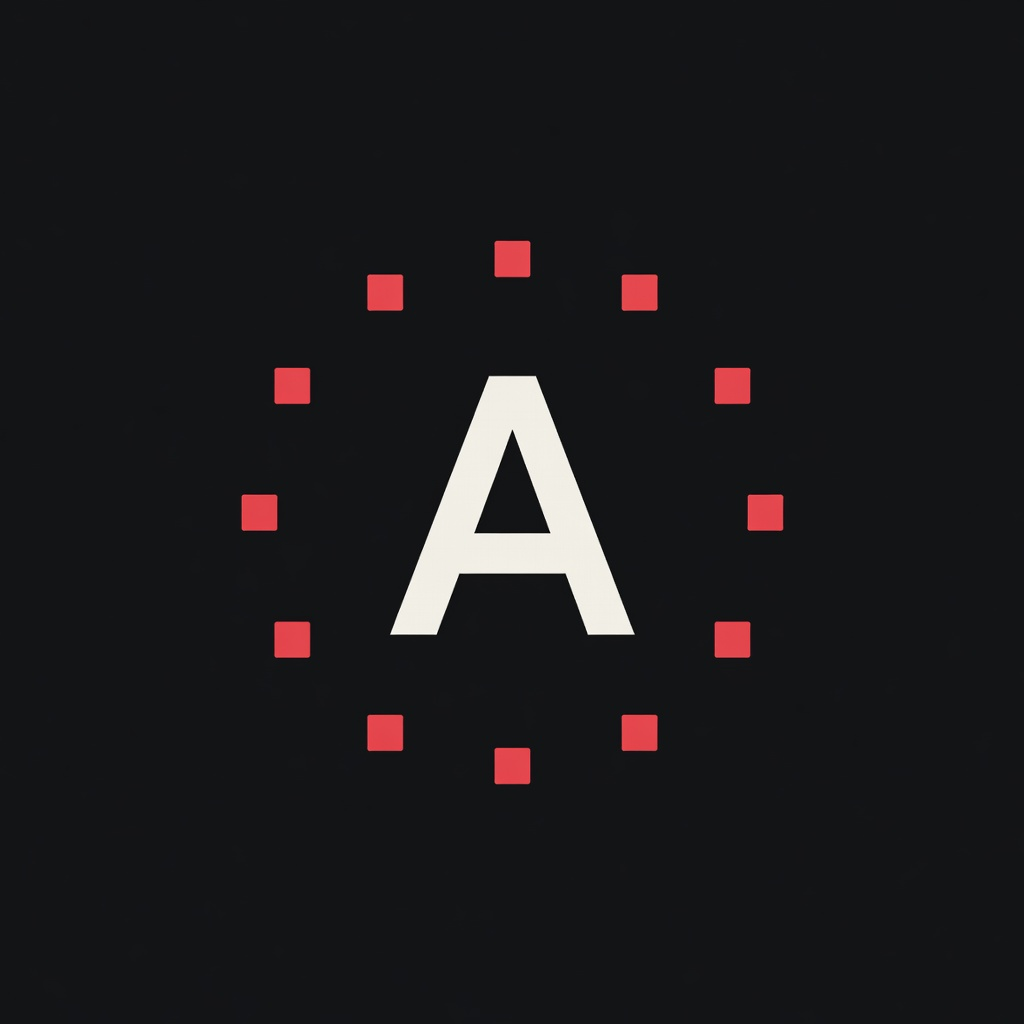
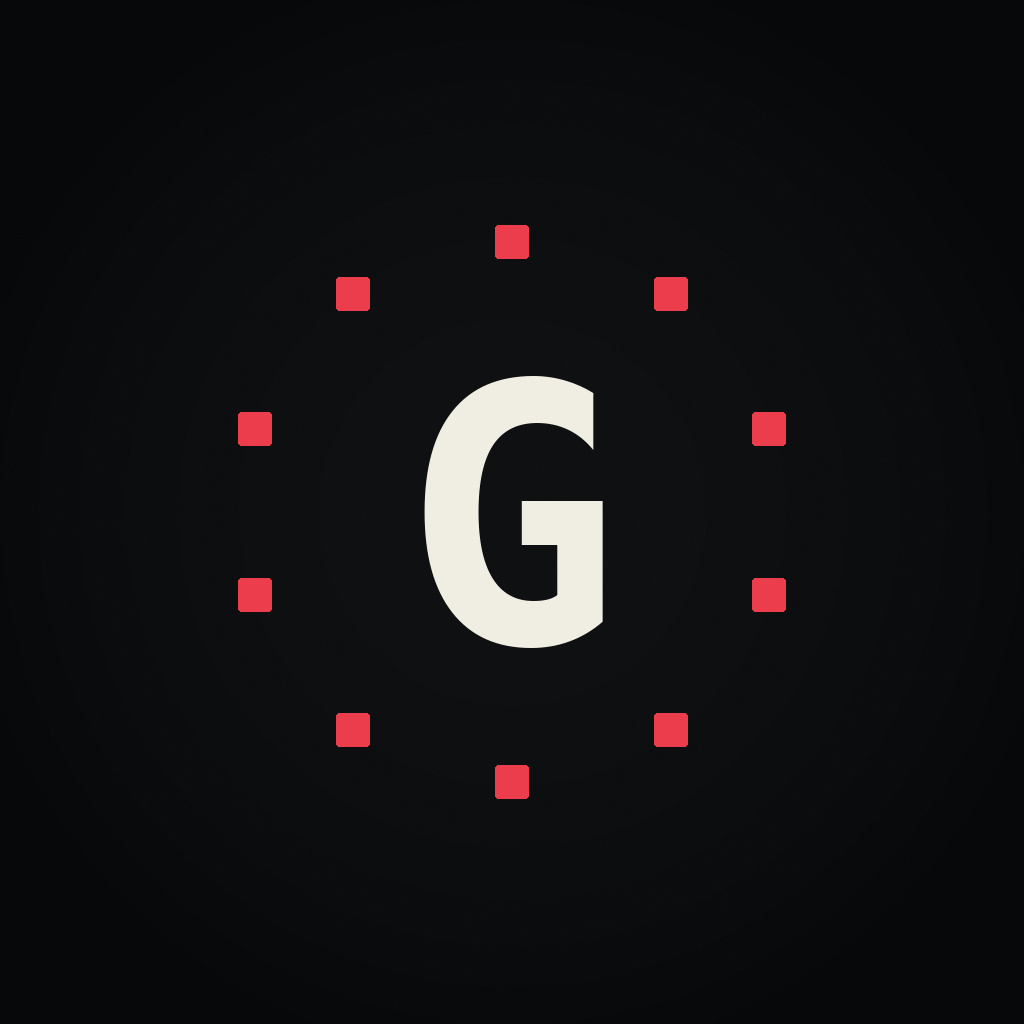
[verified] Rebrand ASTRA CREW as GPTHEIST

diff --git a/tests/cli.test.ts b/tests/cli.test.ts
@@ -1,6 +1,6 @@
 import assert from "node:assert/strict";
 import { execFileSync, spawnSync } from "node:child_process";
-import { mkdir, mkdtemp, writeFile } from "node:fs/promises";
+import { mkdir, mkdtemp, symlink, writeFile } from "node:fs/promises";
 import { tmpdir } from "node:os";
 import { join } from "node:path";
 import { test } from "node:test";
@@ -12,7 +12,7 @@ test("demo runs offline and prints timestamped handoffs plus a paper-only result
     cwd: process.cwd(),
     encoding: "utf8"
   });
-  assert.match(output, /ASTRA CREW — PAPER-TRADING REPLAY/);
+  assert.match(output, /GPTHEIST — PAPER-TRADING REPLAY/);
   assert.match(output, /\[2026-01-15T12:00:00\.000Z\] TOKYO/);
   assert.match(output, /PALERMO\s+PASS/);
   assert.match(output, /FINAL: PASS — approved \(paper-only; executed=false\)/);
@@ -39,14 +39,14 @@ test("doctor checks Node, fixtures, audit directory, dependencies, and paper-onl
   const output = execFileSync(process.execPath, [cli.pathname, "doctor"], { cwd: process.cwd(), encoding: "utf8" });
   assert.match(output, /PASS Node\.js >= 18/);
   assert.match(output, /PASS bundled demo fixture/);
-  assert.match(output, /PASS runs directory writable/);
+  assert.match(output, /PASS runs directory writable and safe/);
   assert.match(output, /PASS zero runtime dependencies/);
   assert.match(output, /PASS execution boundary: paper-only/);
   assert.match(output, /Doctor: 5\/5 checks passed/);
 });
 
 test("malformed JSON exits nonzero with one concise error and no stack trace", async () => {
-  const directory = await mkdtemp(join(tmpdir(), "astra-crew-cli-"));
+  const directory = await mkdtemp(join(tmpdir(), "gptheist-cli-"));
   const fixturePath = join(directory, "broken.json");
   await writeFile(fixturePath, "{not-json", "utf8");
 
@@ -63,7 +63,7 @@ test("malformed JSON exits nonzero with one concise error and no stack trace", a
 });
 
 test("invalid fixture schema exits nonzero with a concise validation error", async () => {
-  const directory = await mkdtemp(join(tmpdir(), "astra-crew-cli-"));
+  const directory = await mkdtemp(join(tmpdir(), "gptheist-cli-"));
   const fixturePath = join(directory, "invalid.json");
   await writeFile(fixturePath, JSON.stringify({ schemaVersion: 1, market: "BTC-USD" }), "utf8");
 
@@ -91,7 +91,7 @@ test("unknown commands cannot inject terminal controls or forged lines", () => {
 });
 
 test("audit paths from control-character working directories are terminal-safe", async () => {
-  const root = await mkdtemp(join(tmpdir(), "astra-crew-cli-"));
+  const root = await mkdtemp(join(tmpdir(), "gptheist-cli-"));
   const unsafeCwd = join(root, "red\u001b[31mroom");
   await mkdir(unsafeCwd);
 
@@ -103,4 +103,19 @@ test("audit paths from control-character working directories are terminal-safe",
   assert.equal(result.status, 0);
   assert.doesNotMatch(result.stdout, /[\u0000-\u0009\u000b-\u001f\u007f-\u009f]/);
   assert.match(result.stdout, /Audit: .*red\\u001b\[31mroom/);
+});
+
+test("doctor fails when the runs directory is symlinked and unusable by the writer", async () => {
+  const root = await mkdtemp(join(tmpdir(), "gptheist-doctor-"));
+  const target = await mkdtemp(join(tmpdir(), "gptheist-doctor-target-"));
+  await symlink(target, join(root, "runs"), "dir");
+
+  const result = spawnSync(process.execPath, [cli.pathname, "doctor"], {
+    cwd: root,
+    encoding: "utf8"
+  });
+
+  assert.notEqual(result.status, 0);
+  assert.match(result.stdout, /FAIL runs directory writable and safe/);
+  assert.match(result.stdout, /Doctor: 4\/5 checks passed/);
 });

diff --git a/src/simulation.ts b/src/simulation.ts
@@ -1,5 +1,6 @@
 import { createHash } from "node:crypto";
-import { mkdir, readFile, realpath, writeFile } from "node:fs/promises";
+import { constants } from "node:fs";
+import { mkdir, open, realpath, writeFile } from "node:fs/promises";
 import { isAbsolute, relative, resolve } from "node:path";
 
 export const AGENTS = [
@@ -190,22 +191,27 @@ export function runSimulation(fixture: ReplayFixture): SimulationResult {
   };
 }
 
+/** Creates or validates an audit directory without accepting symlinked path components. */
+export async function ensureSafeAuditDirectory(directory = "runs"): Promise<string> {
+  const auditDirectory = resolve(directory);
+  await mkdir(auditDirectory, { recursive: true });
+  if (await realpath(auditDirectory) !== auditDirectory) {
+    throw new Error("Audit directory must not contain symlinks");
+  }
+  return auditDirectory;
+}
+
 /** Writes an immutable JSONL trace. Replaying identical input reuses the identical trace. */
 export async function writeJsonlLog(result: SimulationResult, directory = "runs"): Promise<string> {
   if (!/^[0-9a-f]{16}$/.test(result.runId)) {
     throw new Error("runId must be lowercase 16-character hex");
   }
-  const auditDirectory = resolve(directory);
-  const resolvedPath = resolve(auditDirectory, `${result.runId}.jsonl`);
-  const relativePath = relative(auditDirectory, resolvedPath);
+  const auditDirectory = await ensureSafeAuditDirectory(directory);
+  const path = resolve(auditDirectory, `${result.runId}.jsonl`);
+  const relativePath = relative(auditDirectory, path);
   if (relativePath.startsWith("..") || isAbsolute(relativePath)) {
     throw new Error("Audit log path must remain inside the audit directory");
   }
-  await mkdir(auditDirectory, { recursive: true });
-  if (await realpath(auditDirectory) !== auditDirectory) {
-    throw new Error("Audit directory must not contain symlinks");
-  }
-  const path = resolvedPath;
   const handoffs = result.agents.map((handoff) => JSON.stringify({
     type: "handoff",
     runId: result.runId,
@@ -224,10 +230,27 @@ export async function writeJsonlLog(result: SimulationResult, directory = "runs"
   });
   const content = `${[...handoffs, final].join("\n")}\n`;
   try {
-    await writeFile(path, content, { encoding: "utf8", flag: "wx" });
+    await writeFile(path, content, { encoding: "utf8", flag: "wx", mode: 0o600 });
   } catch (error: unknown) {
     if (!(error instanceof Error) || !("code" in error) || error.code !== "EEXIST") throw error;
-    const existing = await readFile(path, "utf8");
+    let handle;
+    try {
+      handle = await open(path, constants.O_RDONLY | constants.O_NOFOLLOW | constants.O_NONBLOCK);
+    } catch (openError: unknown) {
+      if (openError instanceof Error && "code" in openError && openError.code === "ELOOP") {
+        throw new Error("Refusing to read an audit-log symlink");
+      }
+      throw openError;
+    }
+    let existing: string;
+    try {
+      const stats = await handle.stat();
+      if (!stats.isFile()) throw new Error("Existing audit log must be a regular file");
+      if (await realpath(path) !== path) throw new Error("Audit log path must remain inside the audit directory");
+      existing = await handle.readFile({ encoding: "utf8" });
+    } finally {
+      await handle.close();
+    }
     if (existing !== content) throw new Error(`Refusing to overwrite immutable audit log: ${path}`);
   }
   return path;

diff --git a/tests/simulation.test.ts b/tests/simulation.test.ts
@@ -1,5 +1,5 @@
 import assert from "node:assert/strict";
-import { mkdtemp, readFile, symlink } from "node:fs/promises";
+import { mkdir, mkdtemp, readFile, symlink } from "node:fs/promises";
 import { tmpdir } from "node:os";
 import { join } from "node:path";
 import { test } from "node:test";
@@ -47,7 +47,7 @@ test("Palermo vetoes an unsafe signal and the JSONL audit is valid", async () =>
   assert.equal(result.paperTrade.side, "NONE");
   assert.equal(result.paperTrade.executed, false);
 
-  const directory = await mkdtemp(join(tmpdir(), "astra-crew-"));
+  const directory = await mkdtemp(join(tmpdir(), "gptheist-"));
   const logPath = await writeJsonlLog(result, directory);
   const records = (await readFile(logPath, "utf8")).trim().split("\n").map((line) => JSON.parse(line) as { type: string });
   assert.equal(records.length, 11);
@@ -55,7 +55,7 @@ test("Palermo vetoes an unsafe signal and the JSONL audit is valid", async () =>
 });
 
 test("audit writer rejects run IDs that can escape the audit directory", async () => {
-  const directory = await mkdtemp(join(tmpdir(), "astra-crew-"));
+  const directory = await mkdtemp(join(tmpdir(), "gptheist-"));
   const result = runSimulation(safeFixture);
   result.runId = "../../outside-log";
 
@@ -144,20 +144,37 @@ test("fixture-derived display strings cannot inject ANSI, newlines, or control c
   assert.match(result.paperTrade.market, /\\u000d\\u000a\\u001b\[31m-USD/);
   assert.equal(fixture.market, "BTC\r\n\u001b[31m-USD");
 
-  const directory = await mkdtemp(join(tmpdir(), "astra-crew-"));
+  const directory = await mkdtemp(join(tmpdir(), "gptheist-"));
   const records = (await readFile(await writeJsonlLog(result, directory), "utf8"))
     .trim().split("\n").map((line) => JSON.parse(line) as unknown);
   assert.doesNotMatch(JSON.stringify(records), /[\u0000-\u001f\u007f-\u009f]/);
 });
 
 test("audit writer rejects a symlinked audit directory", async () => {
-  const root = await mkdtemp(join(tmpdir(), "astra-crew-symlink-"));
-  const target = await mkdtemp(join(tmpdir(), "astra-crew-target-"));
+  const root = await mkdtemp(join(tmpdir(), "gptheist-symlink-"));
+  const target = await mkdtemp(join(tmpdir(), "gptheist-target-"));
   const linkedDirectory = join(root, "runs");
   await symlink(target, linkedDirectory, "dir");
 
   await assert.rejects(
     writeJsonlLog(runSimulation(safeFixture), linkedDirectory),
     /Audit directory must not contain symlinks/
+  );
+});
+
+test("audit writer never follows an existing final-path symlink", async () => {
+  const root = await mkdtemp(join(tmpdir(), "gptheist-final-symlink-"));
+  const source = join(root, "source");
+  const auditDirectory = join(root, "runs");
+  await mkdir(source);
+  await mkdir(auditDirectory);
+
+  const result = runSimulation(safeFixture);
+  const legitimatePath = await writeJsonlLog(result, source);
+  await symlink(legitimatePath, join(auditDirectory, `${result.runId}.jsonl`));
+
+  await assert.rejects(
+    writeJsonlLog(result, auditDirectory),
+    /symlink|regular file/i
   );
 });

diff --git a/src/cli.ts b/src/cli.ts
@@ -1,9 +1,9 @@
 #!/usr/bin/env node
-import { access, mkdir, readFile } from "node:fs/promises";
+import { access, readFile } from "node:fs/promises";
 import { constants } from "node:fs";
 import { dirname, resolve } from "node:path";
 import { fileURLToPath } from "node:url";
-import { AGENTS, EXECUTION_MODE, runSimulation, sanitizeTerminal, validateFixture, writeJsonlLog, type ReplayFixture, type SimulationResult } from "./simulation.js";
+import { AGENTS, EXECUTION_MODE, ensureSafeAuditDirectory, runSimulation, sanitizeTerminal, validateFixture, writeJsonlLog, type ReplayFixture, type SimulationResult } from "./simulation.js";
 
 const projectRoot = resolve(dirname(fileURLToPath(import.meta.url)), "../..");
 
@@ -26,7 +26,7 @@ async function loadFixture(path: string): Promise<ReplayFixture> {
 
 function formatResult(result: SimulationResult, logPath: string): string {
   const lines = [
-    "ASTRA CREW — PAPER-TRADING REPLAY",
+    "GPTHEIST — PAPER-TRADING REPLAY",
     "Safety: simulation only; no wallet, signing, private keys, or live execution.",
     ""
   ];
@@ -53,12 +53,12 @@ async function main(args: string[]): Promise<void> {
   }
   if (command === "replay") {
     const fixturePath = args[1];
-    if (fixturePath === undefined) throw new Error("Usage: astra-crew replay <fixture.json>");
+    if (fixturePath === undefined) throw new Error("Usage: gptheist replay <fixture.json>");
     await runFixture(resolve(process.cwd(), fixturePath));
     return;
   }
   if (command === "agents") {
-    process.stdout.write("ASTRA CREW — TEN AGENTS, ONE DECISION\n\n");
+    process.stdout.write("GPTHEIST — TEN AGENTS, ONE DECISION\n\n");
     AGENTS.forEach((agent, index) => {
       process.stdout.write(`${index + 1}. ${agent.name} — ${agent.role}\n   ${agent.responsibility}\n`);
     });
@@ -71,9 +71,9 @@ async function main(args: string[]): Promise<void> {
         await access(resolve(projectRoot, "fixtures/success.json"), constants.R_OK);
         return true;
       }],
-      ["runs directory writable", async () => {
+      ["runs directory writable and safe", async () => {
         const runs = resolve(process.cwd(), "runs");
-        await mkdir(runs, { recursive: true });
+        await ensureSafeAuditDirectory(runs);
         await access(runs, constants.W_OK);
         return true;
       }],
@@ -102,13 +102,13 @@ async function main(args: string[]): Promise<void> {
   }
   if (command === "help" || command === "--help" || command === "-h") {
     process.stdout.write([
-      "ASTRA CREW — deterministic ten-agent market replay",
+      "GPTHEIST — deterministic ten-agent market replay",
       "",
       "Usage:",
-      "  astra-crew demo",
-      "  astra-crew replay <fixture.json>",
-      "  astra-crew agents",
-      "  astra-crew doctor",
+      "  gptheist demo",
+      "  gptheist replay <fixture.json>",
+      "  gptheist agents",
+      "  gptheist doctor",
       "",
       "Paper-only. No wallet access. No live execution.",
       ""

diff --git a/README.md b/README.md
@@ -1,8 +1,8 @@
 <p align="center">
-  <img src="./assets/avatar.jpg" alt="ASTRA CREW" width="128">
+  <img src="./assets/avatar.jpg" alt="GPTHEIST" width="128">
 </p>
 <p align="center">
-  <img src="./assets/banner.jpg" alt="ASTRA CREW — Ten agents. One decision." width="100%">
+  <img src="./assets/banner.jpg" alt="GPTHEIST — Ten agents. One decision." width="100%">
 </p>
 
 <p align="center">
@@ -10,13 +10,13 @@
 </p>
 
 <p align="center">
-  <a href="https://github.com/immortalhowwl/astra-crew/actions/workflows/ci.yml"><img alt="CI" src="https://github.com/immortalhowwl/astra-crew/actions/workflows/ci.yml/badge.svg"></a>
+  <a href="https://github.com/immortalhowwl/gptheist/actions/workflows/ci.yml"><img alt="CI" src="https://github.com/immortalhowwl/gptheist/actions/workflows/ci.yml/badge.svg"></a>
   <img alt="mode" src="https://img.shields.io/badge/mode-paper--only-e5484d">
   <img alt="runtime dependencies" src="https://img.shields.io/badge/runtime%20dependencies-0-f4efe6">
   <img alt="license" src="https://img.shields.io/badge/license-MIT-f4efe6">
 </p>
 
-ASTRA CREW is a deterministic, inspectable market-replay CLI inspired by the ten-agent operating system described by [@immortalhowwl](https://x.com/immortalhowwl). Each specialist owns one gate. Every handoff is visible. Palermo can veto the run. Professor returns one final decision.
+GPTHEIST is a deterministic, inspectable market-replay CLI inspired by the ten-agent operating system described by [@immortalhowwl](https://x.com/immortalhowwl). Each specialist owns one gate. Every handoff is visible. Palermo can veto the run. Professor returns one final decision.
 
 It is intentionally **paper-only**: no wallet connection, private key, signing, RPC, brokerage integration, or live order execution exists in this repository.
 
@@ -25,8 +25,8 @@ It is intentionally **paper-only**: no wallet connection, private key, signing, 
 Requires Node.js 18 or newer.
 
 ```bash
-git clone https://github.com/immortalhowwl/astra-crew.git
-cd astra-crew
+git clone https://github.com/immortalhowwl/gptheist.git
+cd gptheist
 npm install
 npm run demo
 ```
@@ -34,7 +34,7 @@ npm run demo
 The demo is fully offline and uses the bundled `fixtures/success.json` replay.
 
 ```text
-ASTRA CREW — PAPER-TRADING REPLAY
+GPTHEIST — PAPER-TRADING REPLAY
 Safety: simulation only; no wallet, signing, private keys, or live execution.
 
 [2026-01-15T12:00:00.000Z] TOKYO      INFO :: Scout — Observed BTC-USD at 100000.00 from bundled replay data.
@@ -66,10 +66,10 @@ Audit: runs/9d64be648f8a52d3.jsonl
 After `npm link`, use the shorter binary form:
 
 ```bash
-astra-crew demo
-astra-crew replay fixtures/veto.json
-astra-crew agents
-astra-crew doctor
+gptheist demo
+gptheist replay fixtures/veto.json
+gptheist agents
+gptheist doctor
 ```
 
 ## The handoff
@@ -103,7 +103,7 @@ npm run build
 node dist/src/cli.js replay my-replay.json
 ```
 
-Every input is local JSON. ASTRA CREW does not fetch market data. Fixtures are schema-validated before the first handoff, and terminal control characters are escaped. Identical input under the same policy version produces the same run ID, handoffs, timestamps, and final decision. Audit records are written to `runs/<run-id>.jsonl`. Existing records are immutable: the CLI refuses to overwrite a run ID with different content.
+Every input is local JSON. GPTHEIST does not fetch market data. Fixtures are schema-validated before the first handoff, and terminal control characters are escaped. Identical input under the same policy version produces the same run ID, handoffs, timestamps, and final decision. Audit records are written to `runs/<run-id>.jsonl`. Existing records are immutable: the CLI refuses to overwrite a run ID with different content.
 
 A run is vetoed when any configured boundary fails, including:
 

diff --git a/docs/AGENTS.md b/docs/AGENTS.md
@@ -1,6 +1,6 @@
-# ASTRA CREW agent contract
+# GPTHEIST agent contract
 
-ASTRA CREW models ten named responsibilities as deterministic pipeline stages. In this version, an “agent” is an inspectable rules stage, not a live LLM process. Every stage receives the same immutable replay fixture plus prior handoffs.
+GPTHEIST models ten named responsibilities as deterministic pipeline stages. In this version, an “agent” is an inspectable rules stage, not a live LLM process. Every stage receives the same immutable replay fixture plus prior handoffs.
 
 ## Shared rules
 

diff --git a/SECURITY.md b/SECURITY.md
@@ -1,5 +1,5 @@
 # Security policy
 
-ASTRA CREW is paper-only and has no wallet, signing, RPC, brokerage, or live-execution code.
+GPTHEIST is paper-only and has no wallet, signing, RPC, brokerage, or live-execution code.
 
 Do not place private keys, seed phrases, API credentials, or personal data in replay fixtures or issues. If you discover a security problem, do not open a public issue. Contact the repository owner privately through the contact method on their GitHub profile.
